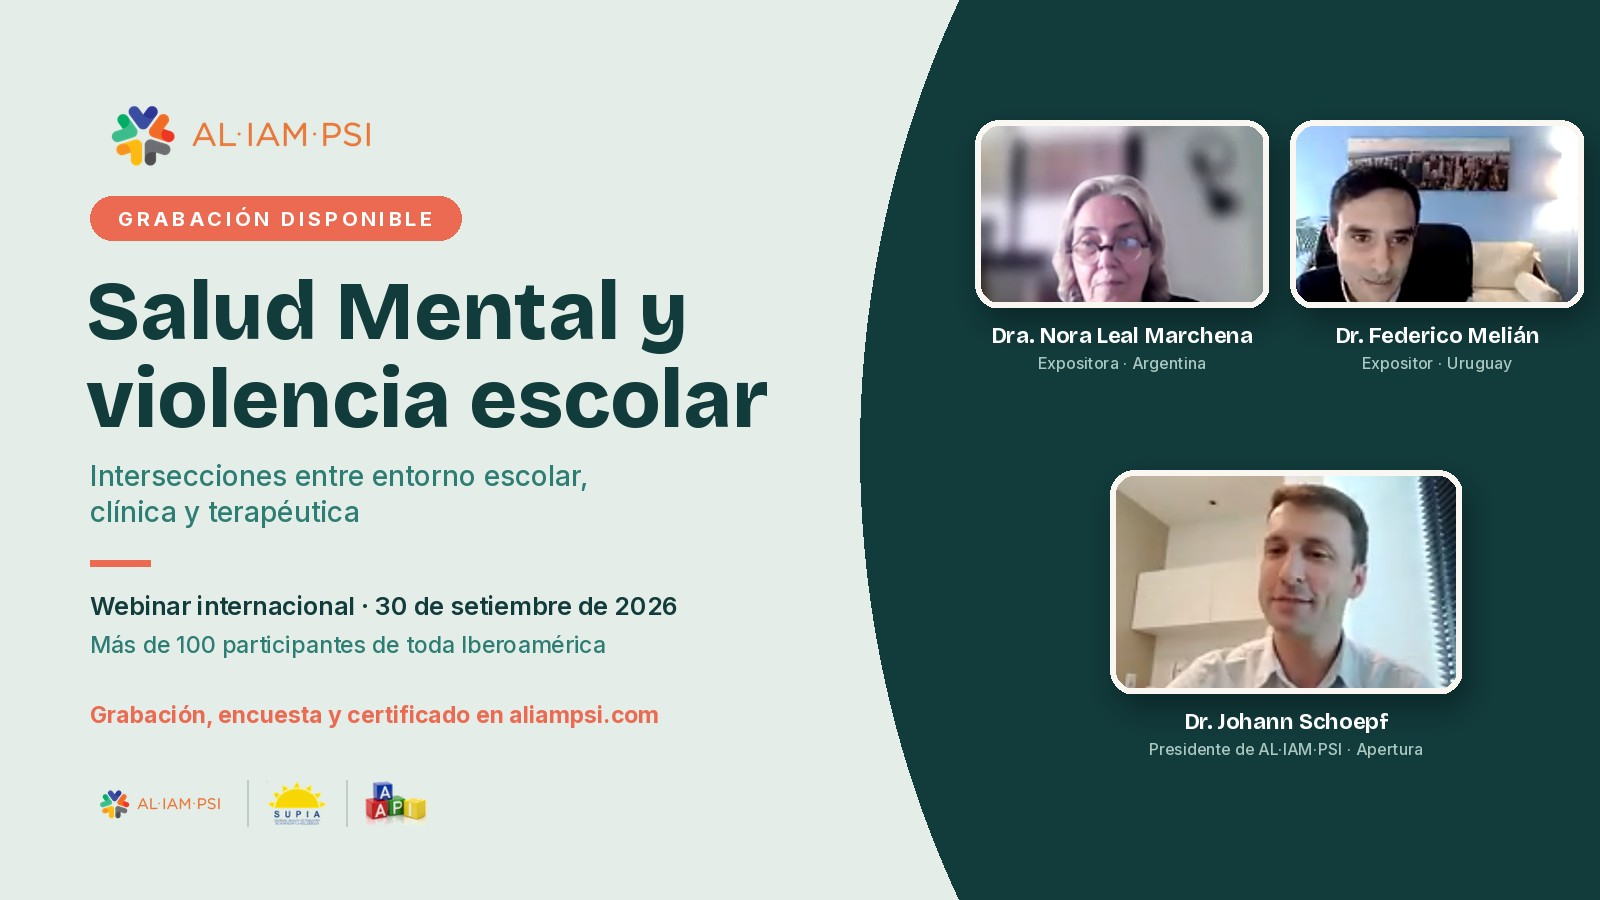
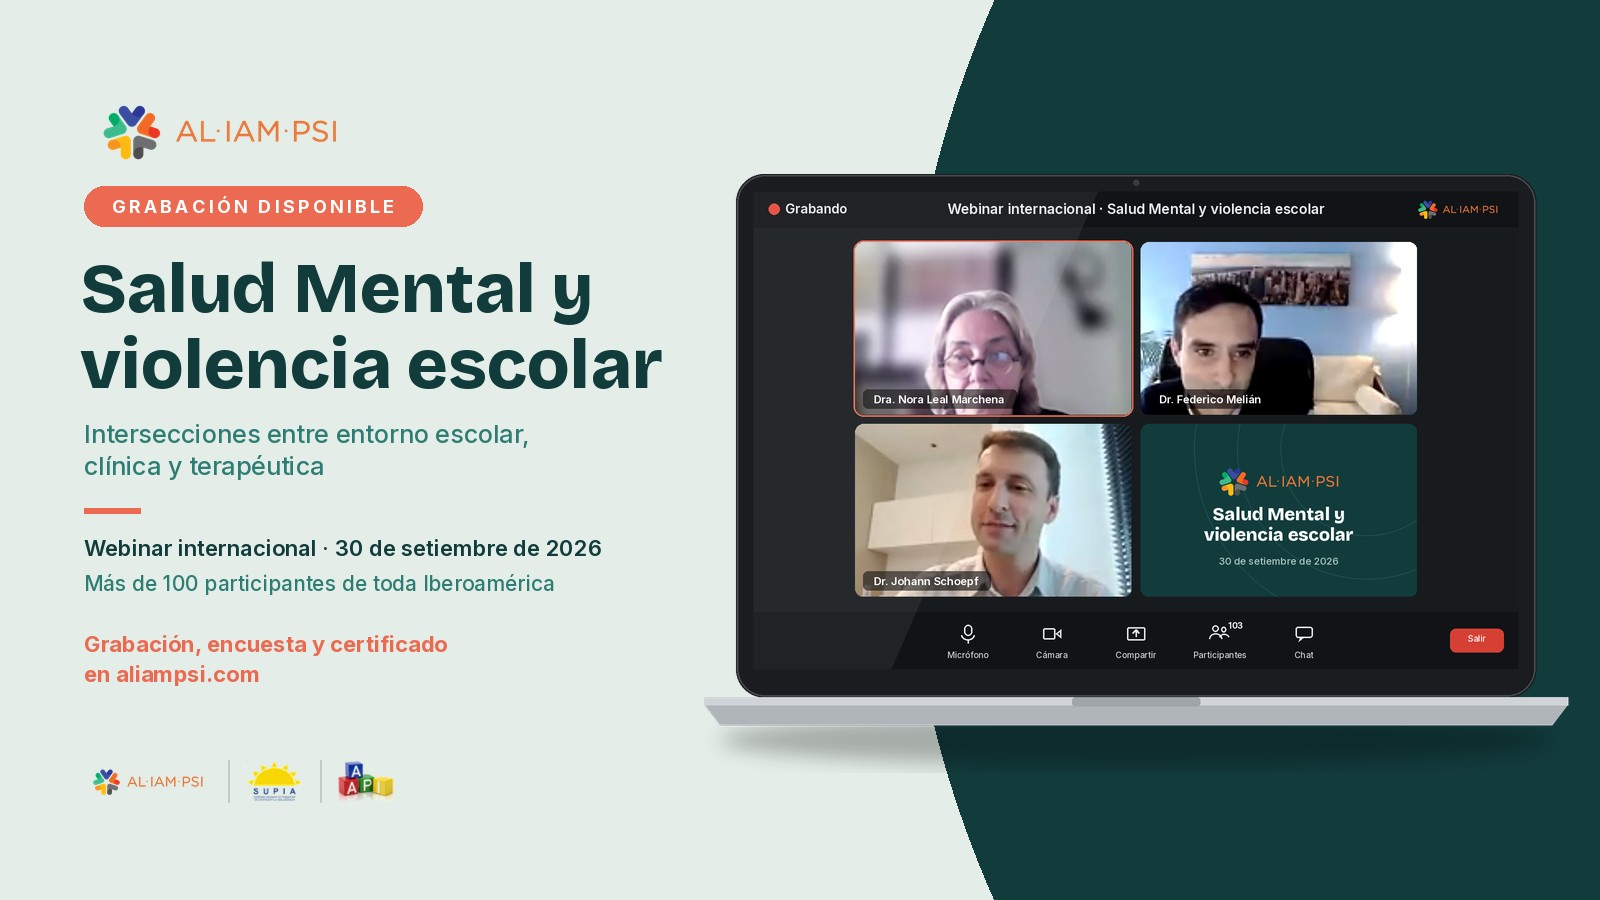
Nueva portada de la noticia del webinar. v2026.10.04-105

diff --git a/aliampsi/src/lib/version.ts b/aliampsi/src/lib/version.ts
@@ -1,12 +1,17 @@
 // Fuente única de la versión de la app.
 // Subir este valor en cada cambio de código dispara el aviso de "versión nueva".
-export const APP_VERSION = 'v2026.10.03-104';
+export const APP_VERSION = 'v2026.10.04-105';
 
 export type EntradaHistorial = { version: string; fecha: string; cambios: string[] };
 
 // Lo que cambió, escrito para quien administra el sitio. La más nueva, arriba.
 // El detalle técnico de cada versión está en CHANGELOG.md.
 export const HISTORIAL: EntradaHistorial[] = [
+  {
+    version: 'v2026.10.04-105',
+    fecha: '4/10/2026',
+    cambios: ['Nueva portada de la noticia del webinar: una notebook con la videollamada de los expositores.'],
+  },
   {
     version: 'v2026.10.03-104',
     fecha: '3/10/2026',

diff --git a/CHANGELOG.md b/CHANGELOG.md
@@ -3,6 +3,9 @@
 Numeración: `vAAAA.MM.DD-N` (fecha del despliegue y número correlativo).
 La versión vigente vive en `aliampsi/src/lib/version.ts`, junto al historial que se muestra en el panel.
 
+## v2026.10.04-105 — 4/10/2026
+- Portada y pieza de redes de la noticia del webinar rehechas: notebook con videollamada (interfaz genérica, sin marcas de terceros).
+
 ## v2026.10.03-104 — 3/10/2026
 - `CoverField`: se habilita el campo de dirección del `ImageField` (antes `showUrlInput={false}`).
 
